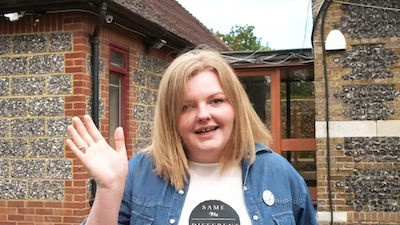
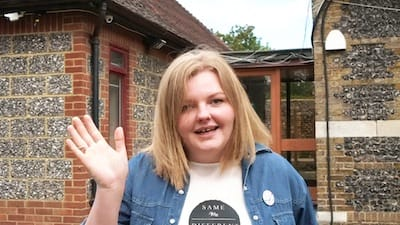
Further compress images

Changed region(s): [[0.66, 0.9022, 0.69, 0.9333]]

diff --git a/_site/index.html b/_site/index.html
@@ -28,7 +28,15 @@
     <script src="https://oss.maxcdn.com/libs/respond.js/1.4.2/respond.min.js"></script>
   <![endif]-->
 
-    
+  <!-- Global site tag (gtag.js) - Google Analytics -->
+<script async src="https://www.googletagmanager.com/gtag/js?id=UA-10151479-2"></script>
+<script>
+  window.dataLayer = window.dataLayer || [];
+  function gtag(){dataLayer.push(arguments);}
+  gtag('js', new Date());
+
+  gtag('config', 'UA-10151479-2');
+</script>
 
 </head>
 
@@ -115,7 +123,7 @@
               <h4>
                 <strong>What to expect?</strong>
               </h4>
-              <p>A divine experience, where you get to encounter God, and learn the tools you need to tell more people about God's love, and how it can change thir lives.</p>
+              <p>A divine experience, where you get to encounter God, and learn the tools you need to tell more people about God's love, and how it can change their lives.</p>
             </div>
           </div>
         <!-- /.row (nested) -->
@@ -146,7 +154,7 @@
   <!-- /.container -->
 </section>
 
-<iframe frameborder="0" scrolling="no" style="height:500px;width:100%;border:none;" src='https://forms.zohopublic.eu/dinedrc/form/DineInterest/formperma/zGB2ZB4qWl-RwP7bVw-kNNLnz1R_khi1IR98Oo-p_KU'></iframe>  
+<iframe frameborder="0" scrolling="no" style="height:740px;width:100%;border:none;" src='https://forms.zohopublic.eu/dinedrc/form/DineInterest/formperma/zGB2ZB4qWl-RwP7bVw-kNNLnz1R_khi1IR98Oo-p_KU'></iframe>  
   <section id="portfolio" class="portfolio">
   <div class="container">
     <div class="col-lg-10 col-lg-offset-1 text-center">
@@ -157,7 +165,7 @@
         <div class="col-md-6">
           <div class="portfolio-item">
             <a href="#">
-              <img class="img-portfolio img-responsive" src="img/testimonies/jana.png">
+              <img class="img-portfolio img-responsive" src="img/testimonies/jana_small.jpg">
             </a>
           </div>
         </div>
